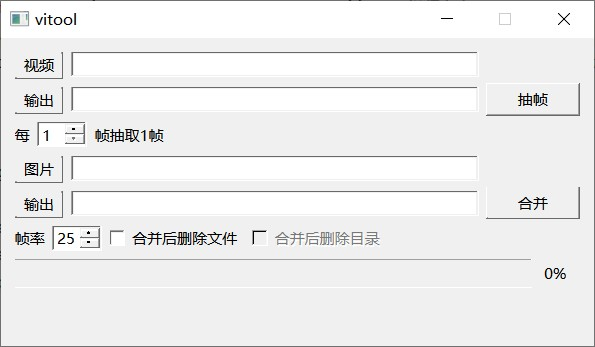
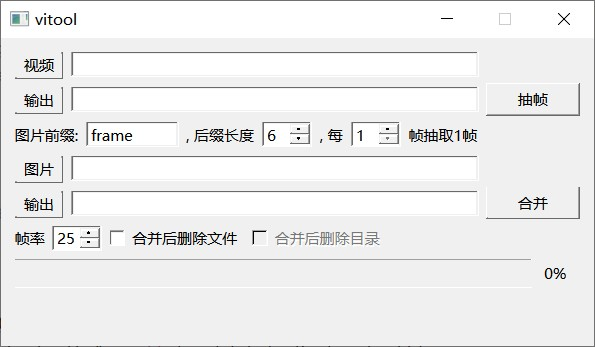
更新readme

Changed region(s): [[0.0, 0.3458, 0.8168, 0.4323], [0.9983, 0.1729, 1.0, 0.2017]]

diff --git a/README.md b/README.md
@@ -4,10 +4,14 @@
 
 软件功能：
 1. 视频抽帧
-   - 可以选择间隔多少帧抽帧
+   - 设置图片前缀、后缀
+   - 选择间隔多少帧抽帧
 2. 图片合并为视频
-   - 可以选择按每秒多少帧合并（帧率）
-   - 可以选择合并后是否删除图片及目录
+   - 选择按每秒多少帧合并（帧率）
+   - 选择合并后是否删除图片及目录
 
 # 20230817
 完成基本功能开发
+
+# 20231031
+增加设置图片文件的前缀、后缀
